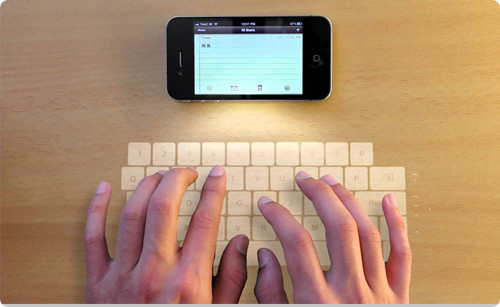
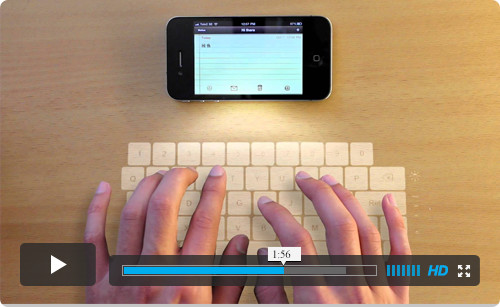
add video section

Changed region(s): [[0.03, 0.7915, 0.96, 0.9381]]

diff --git a/source/elements/video/_video.sass b/source/elements/video/_video.sass
@@ -1,1 +1,52 @@
 .video
+	background-color: $turquoise
+	padding: 70px 0
+	&-inner
+		@extend %flex-grid-md
+	.video-image
+		width: 100%
+		vertical-align: middle
+		&_wrap
+			overflow: hidden
+			border-radius: 15px
+			padding: 0
+			margin: 0 auto 50px
+			max-width: 80%
+			+min-screen($tablet)
+				max-width: calc(100%/12 * 5)
+				margin-left: calc(100%/12 + #{$col-padding})
+				margin-right: $col-padding
+				margin-bottom: 0
+				order: 2
+	&-text
+		text-align: center
+		+min-screen($tablet)
+			text-align: left
+			max-width: 50%
+	&-header
+		color: $nero
+		font-size: 28px
+		text-transform: uppercase
+		margin-bottom: 15px
+	&-title
+		color: $white
+		margin-bottom: 20px
+		+min-screen($mdpi)
+			padding-right: 15%
+	&-platform
+		&_icon
+			display: inline-block
+			width: 68px
+			height: 68px
+			border-radius: 34px
+			background-color: $pacific-blue
+			text-align: center
+			line-height: 68px
+			color: $white
+			transition: all .45s cubic-bezier(0.25,1,0.33,1),transform .45s cubic-bezier(0.25,1,0.33,1)
+			cursor: pointer
+			font-size: 32px
+			&:hover
+				background-color: $black
+			&+&
+				margin-left: 20px

diff --git a/source/elements/hero/_hero.sass b/source/elements/hero/_hero.sass
@@ -4,6 +4,8 @@
 	background-size: cover
 	margin-bottom: 125px
 	position: relative
+	+max-screen($mobile)
+		margin-bottom: 0
 	&-inner
 		@extend %row
 	&-text

diff --git a/source/sass/_variables.sass b/source/sass/_variables.sass
@@ -23,4 +23,6 @@ $melanzane: #282528
 $mine-shaft: #343c3f
 $silver: #c1c1c1
 $turquoise: #31d4e7
+$nero: #222222
+$pacific-blue: #0098cd
 
